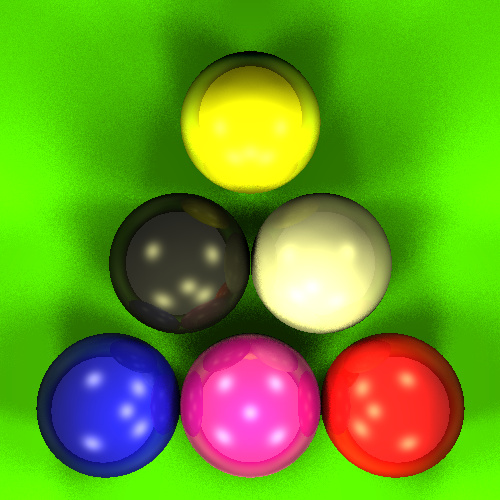
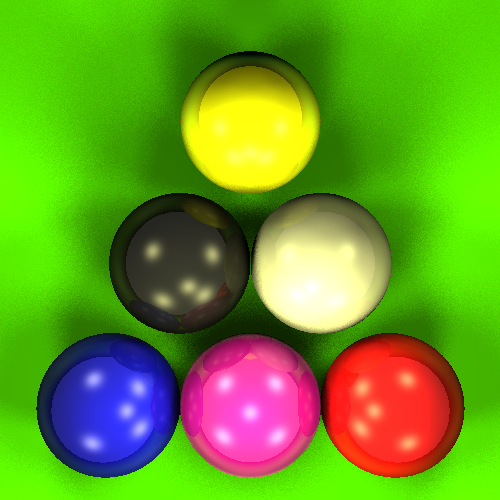
fixed light_v_right calculation

Changed region(s): [[0.63, 0.63, 0.72, 0.72], [0.3, 0.66, 0.39, 0.72], [0.48, 0.39, 0.54, 0.42]]

diff --git a/ray_tracer.py b/ray_tracer.py
@@ -247,12 +247,11 @@ def ray_tracer(ray, i, j, image_array, objects, scene_settings, origin_point, de
                 bounding_box_width = light.radius / math.sqrt(2)
 
                 grid_ratio = 2 * bounding_box_width / scene_settings.root_number_shadow_rays
-                light_v_right = np.random.randn(3)
-                light_v_right = light_v_right
 
-                dot_product = light_v_right.dot(-intersection_to_light)
-                light_v_right -= dot_product.real * intersection_to_light / np.linalg.norm(-intersection_to_light) ** 2
+                light_v_right = np.random.randn(3)
+                light_v_right -= light_v_right.dot(-intersection_to_light) * (-intersection_to_light) / np.linalg.norm(-intersection_to_light) ** 2
                 light_v_right /= np.linalg.norm(light_v_right)
+
                 light_v_up = np.cross(-intersection_to_light, light_v_right)
                 light_v_up /= np.linalg.norm(light_v_up)
 
